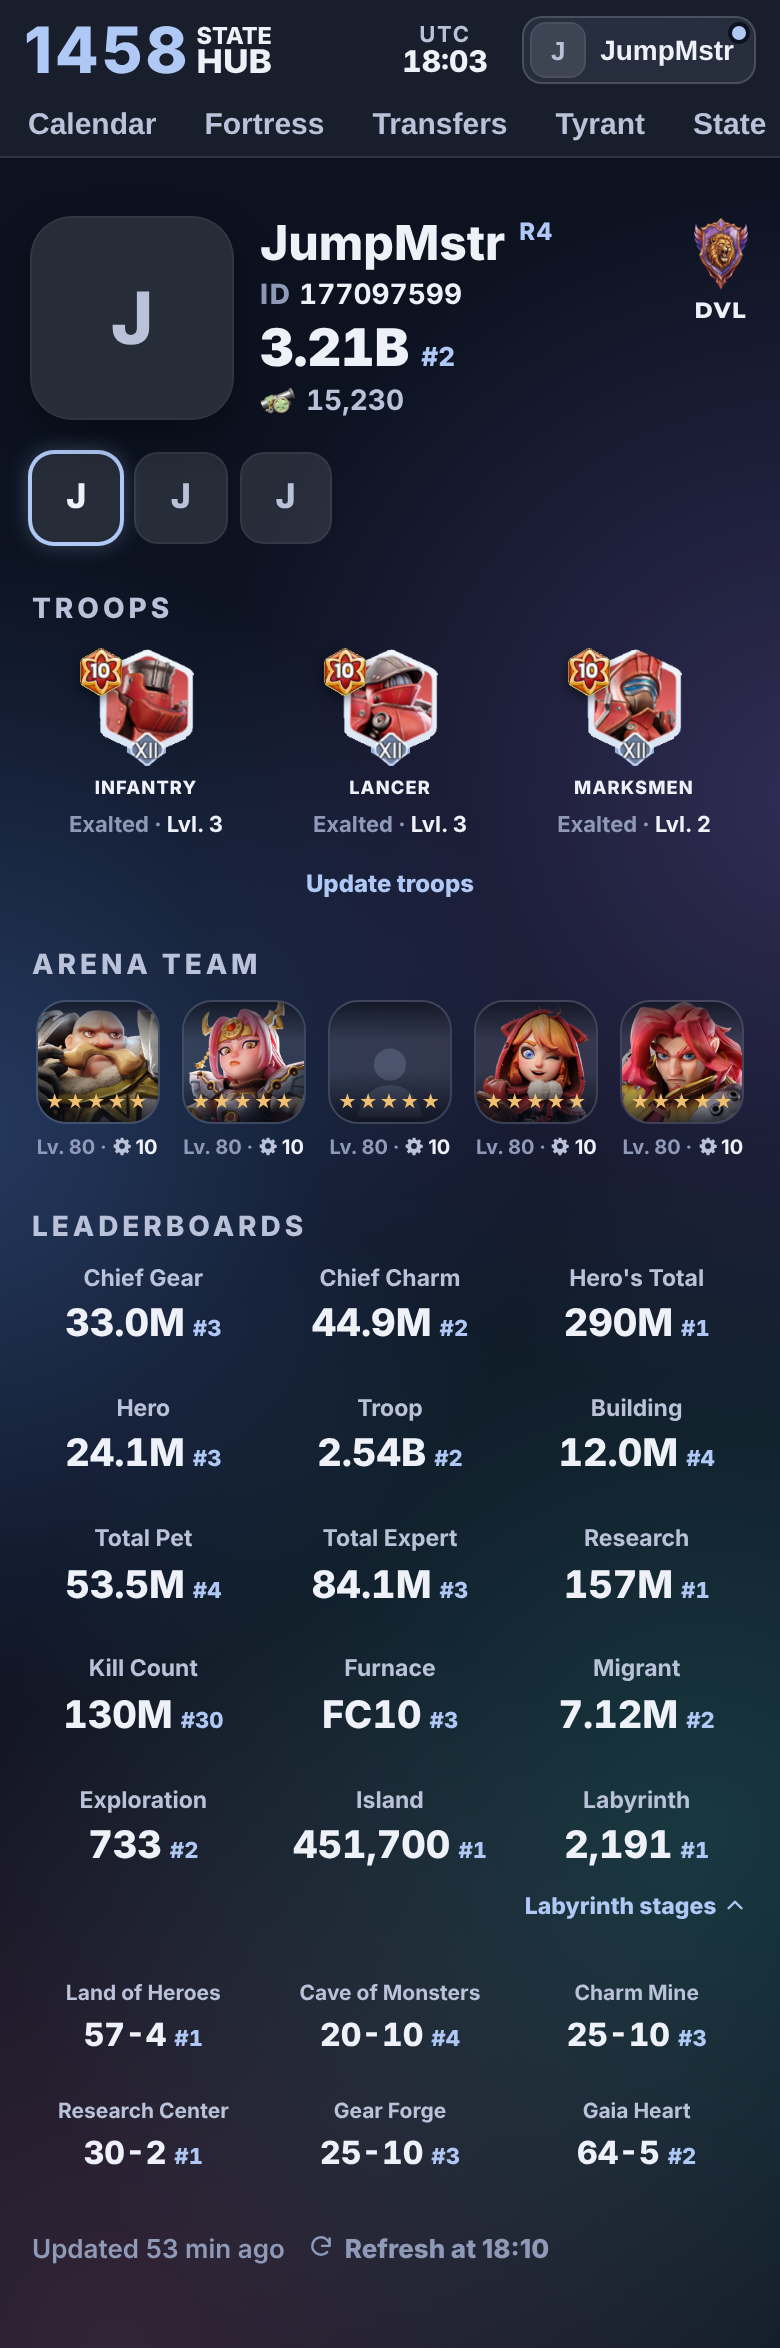
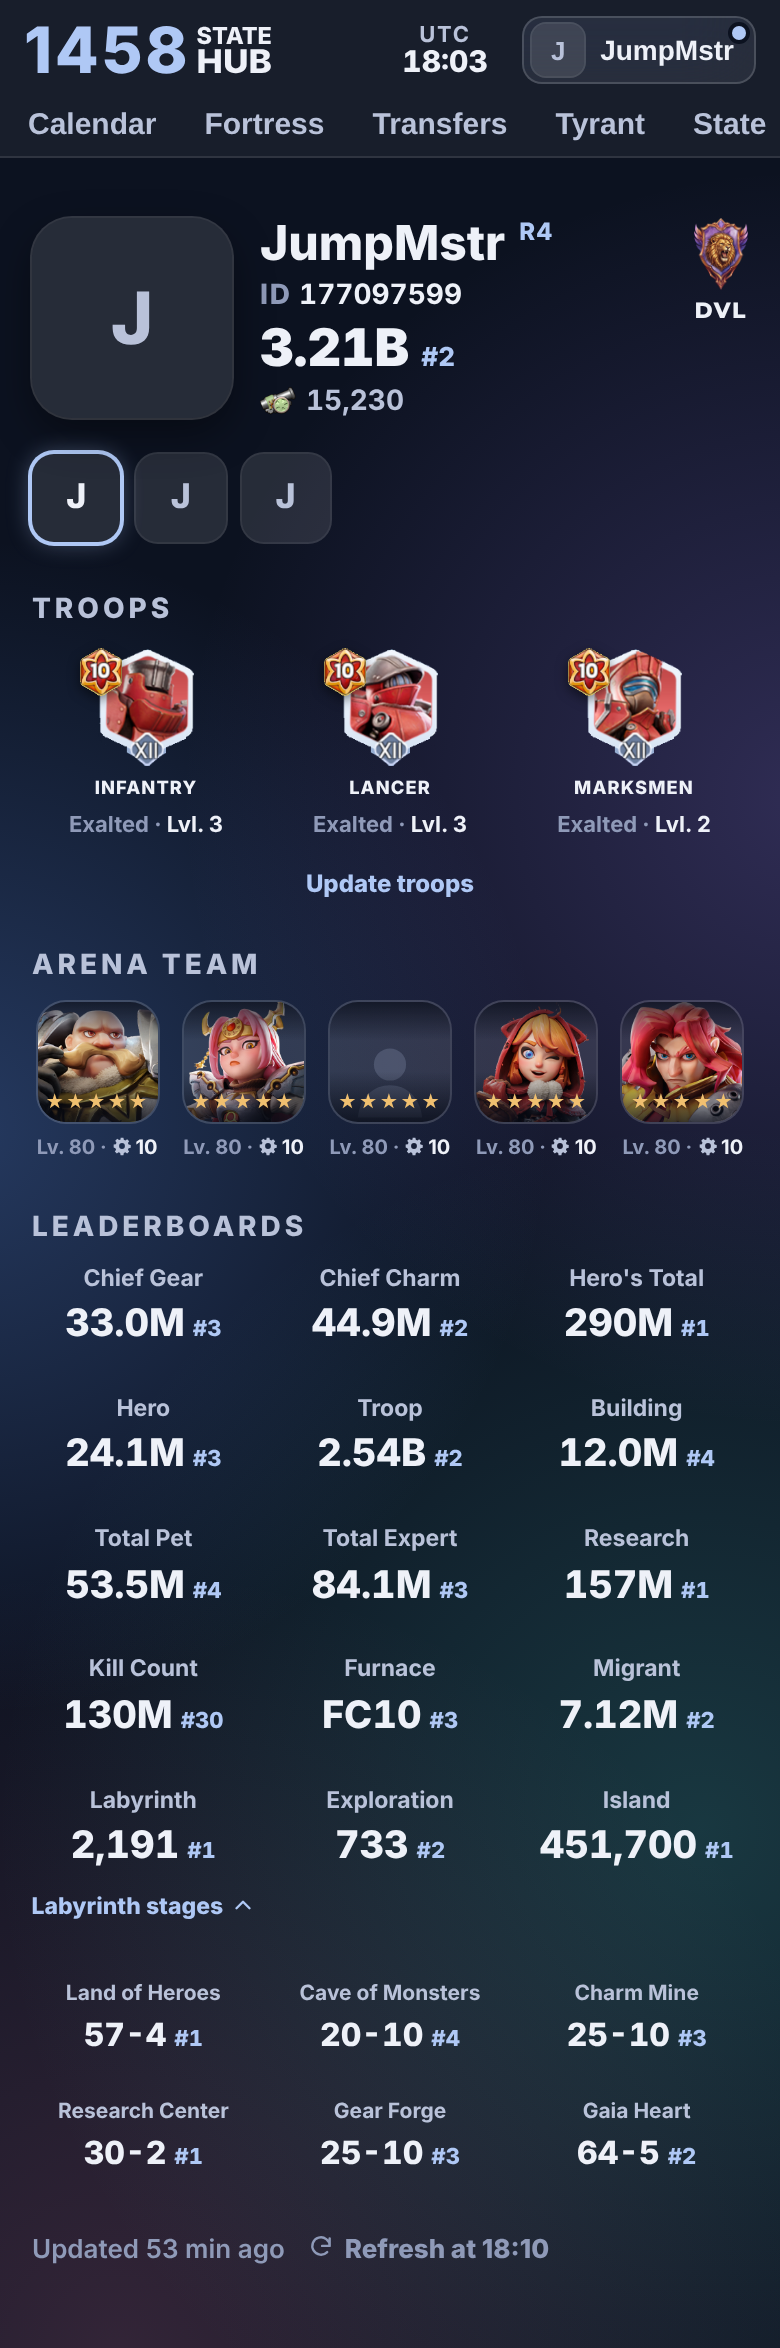
Keep the Labyrinth first on the last leaderboard row.

Changed region(s): [[0.0615, 0.7462, 0.2769, 0.8394], [0.6769, 0.7462, 0.9231, 0.8394], [0.3692, 0.7462, 0.6154, 0.8083]]

diff --git a/tools/mockups/player-page-v2/build_v15.py b/tools/mockups/player-page-v2/build_v15.py
@@ -1,6 +1,7 @@
 # The player page, version 15, phone only: an experiment she may throw out (24 Nov, 00:14).
 # Every leaderboard the account has a rank on, grouped by kind, The Labyrinth on the bottom
-# line; boards with no rank are left out. Shown for JumpMstr and for a farm.
+# line, always on the left so its stages line sits under it (00:18); boards with no rank
+# are left out. Shown for JumpMstr and for a farm.
 # Troop tiers are written T10, T6 (her note, 00:15).
 # Version 14: Version 13 with the account's picture instead of
 # the alliance logo in the top bar and in the menu under the name, each with the account's
@@ -206,12 +207,17 @@ def page(c, mode='', changed_to=None, leave=False, lab_open=False):
     cells = ''
     total, total_rank = c['lab_total']
     # The experiment: every board with a rank. Otherwise her nine, as in version 14.
+    # The experiment: every board with a rank, and The Labyrinth always starting the last row
+    # on the left, with Exploration and Island beside it. Otherwise her nine, as in version 14.
     shown = [n for n in ALL if n == 'The Labyrinth' and total_rank or c['boards'].get(n, (None, None))[1]] if c.get('all') else GRID
-    lab_column = shown.index('The Labyrinth') % 3 + 1 if 'The Labyrinth' in shown else 1
+    if c.get('all') and 'The Labyrinth' in shown:
+        last = [n for n in ('The Labyrinth', 'Exploration Stage', 'Island Prosperity') if n in shown]
+        shown = [n for n in shown if n not in last] + last
+    lab_column = 1
     for name in shown:
         if name == 'The Labyrinth':
             total, total_rank = c['lab_total']
-            cells += '<div class="board">' + board('The Labyrinth', f'{total:,}', total_rank) + '</div>'
+            cells += '<div class="board" style="grid-column: 1">' + board('The Labyrinth', f'{total:,}', total_rank) + '</div>'
         else:
             value, rank = c['boards'].get(name, (None, None))
             cells += '<div class="board">' + board(name, value, rank) + '</div>'
